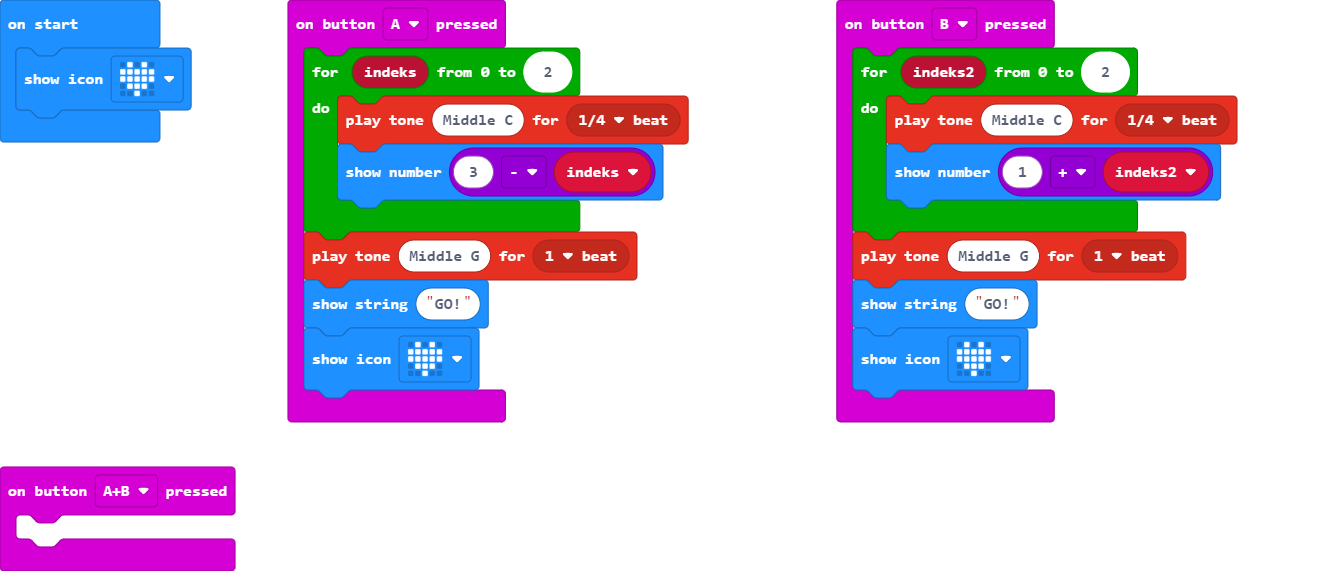
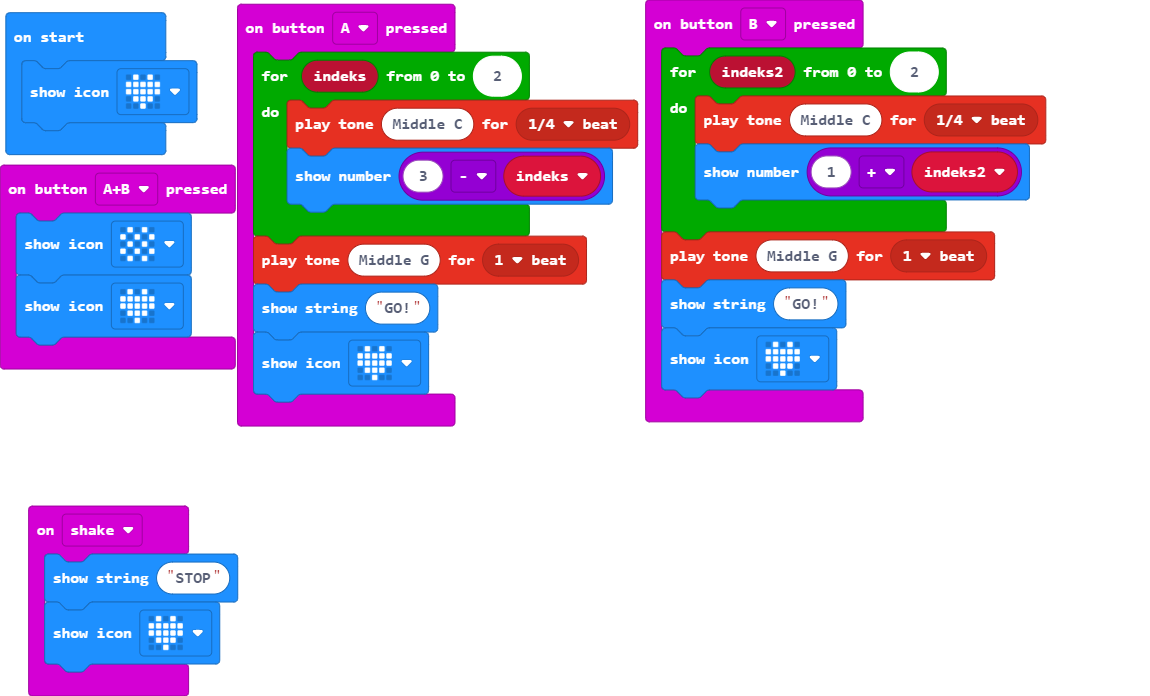
Update main.blocks, main.ts, main.py

diff --git a/main.ts b/main.ts
@@ -20,4 +20,8 @@ input.onButtonPressed(Button.B, function on_button_pressed_b() {
     basic.showString("GO!")
     basic.showIcon(IconNames.Heart)
 })
+input.onGesture(Gesture.Shake, function on_gesture_shake() {
+    basic.showString("STOP!")
+    basic.showIcon(IconNames.Heart)
+})
 basic.showIcon(IconNames.Heart)

diff --git a/main.py b/main.py
@@ -12,7 +12,6 @@ def on_button_pressed_ab():
     basic.show_icon(IconNames.HEART)
 input.on_button_pressed(Button.AB, on_button_pressed_ab)
 
-
 def on_button_pressed_b():
     for indeks2 in range(3):
         music.play_tone(262, music.beat(BeatFraction.QUARTER))
@@ -21,5 +20,10 @@ def on_button_pressed_b():
     basic.show_string("GO!")
     basic.show_icon(IconNames.HEART)
 input.on_button_pressed(Button.B, on_button_pressed_b)
+
+def on_gesture_shake():
+    basic.show_string("STOP!")
+    basic.show_icon(IconNames.HEART)
+input.on_gesture(Gesture.SHAKE, on_gesture_shake)
 
 basic.show_icon(IconNames.HEART)
